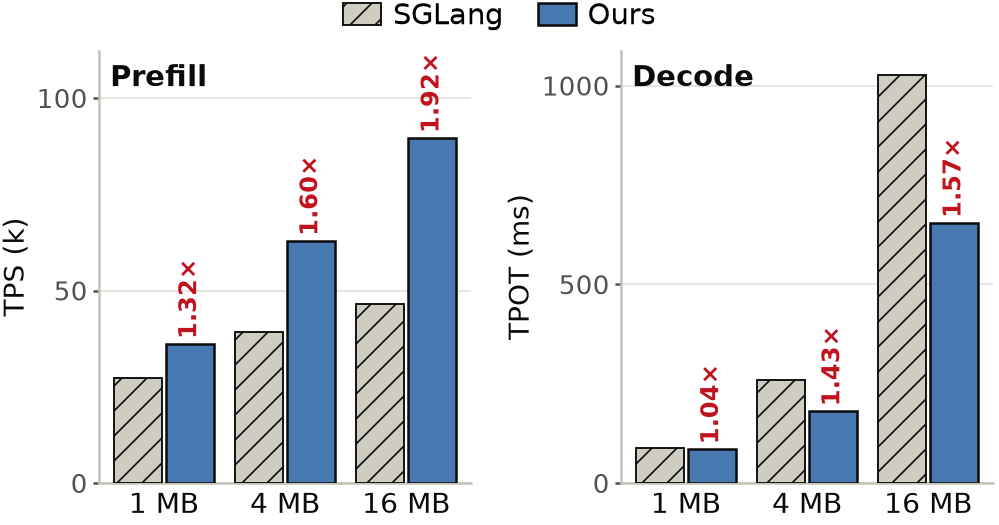
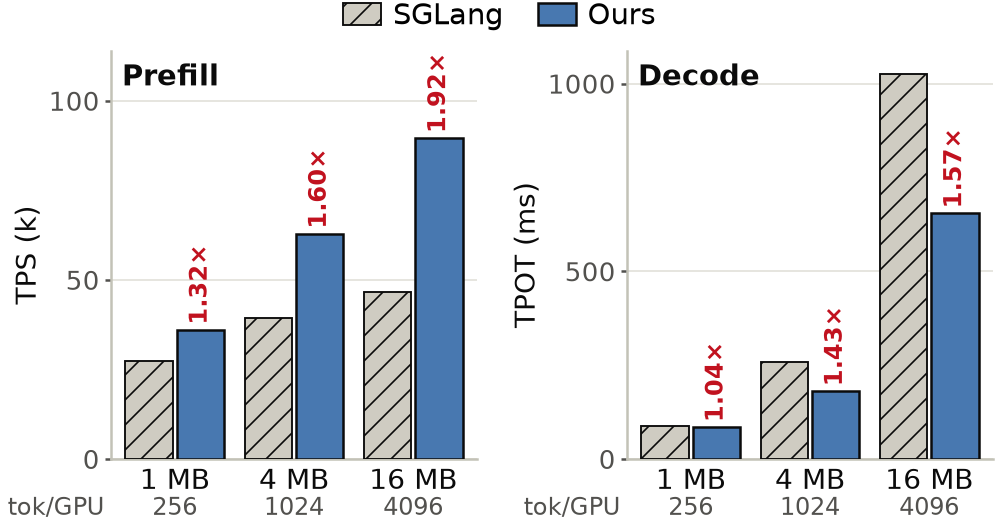
sglang_serving: tokens-per-GPU row under the MB group labels (numbers per group, unit once at the row's left); bottom/left margins widened

Changed region(s): [[0.0, 0.0914, 0.4655, 1.0], [0.4965, 0.0914, 0.993, 1.0], [0.9309, 0.1524, 0.993, 0.1829]]

diff --git a/figs/sglang_serving/make_figure.py b/figs/sglang_serving/make_figure.py
@@ -27,7 +27,11 @@ CONFIG = dict(
         ("prefill", "Prefill", "TPS (k)", True, 1e-3),
         ("decode", "Decode", "TPOT (ms)", False, 1.0),
     ],
-    GROUP_FMT="{b} MB",                    # group label under each pair; tokens / requests per GPU go in the caption
+    GROUP_FMT="{b} MB",                    # group label under each pair
+    # second label row: tokens per GPU per layer-step (prefill: chunk tokens; decode: running requests, one token
+    # each); 30B hidden 2048 x 2 B -> 1 MB = 256 tokens. Numbers only under each group, the unit once at the row's left.
+    TOKENS={1: 256, 4: 1024, 16: 4096},
+    TOK_FMT="{tok}", TOK_ROW_LABEL="tok/GPU",
     SYSTEMS=["stock", "ours"],             # bar order inside a group
     LEGEND_NAMES={"stock": "SGLang", "ours": "Ours"},
     COLORS={"stock": "#cfccc2", "ours": "#4878b0"},     # Ours = main_perf_v5's Ours blue
@@ -44,11 +48,12 @@ CONFIG = dict(
     # ---- layout, inches at final size (the PDF is placed at \columnwidth = 3.33 in; ~20 % of the 9 in column) ----
     FIG_W=3.33, FIG_H=1.75,
     TOP_IN=0.17,                           # legend strip
-    BOTTOM_IN=0.14,                        # group labels
-    LEFT_IN=0.33, RIGHT_IN=0.02, GAP_IN=0.50,   # GAP = between the panels (holds the right panel's y labels)
+    BOTTOM_IN=0.22,                        # group labels + token row
+    LEFT_IN=0.37, RIGHT_IN=0.02, GAP_IN=0.50,   # GAP = between the panels (holds the right panel's y labels)
     FONT_FAMILY=["Helvetica", "Arial", "DejaVu Sans"],
-    FONT_SIZES=dict(legend=7, title=7, ylabel=6.8, tick=6.3, group=6.8, speedup=5.8, pending=5.6),
+    FONT_SIZES=dict(legend=7, title=7, ylabel=6.8, tick=6.3, group=6.8, tok=5.8, speedup=5.8, pending=5.6),
     GROUP_DY_PT=2.0,                       # group label row: points below the x axis
+    TOK_DY_PT=9.0,                         # token row: points below the x axis
     OUTPUTS=[("sglang_serving_draft.pdf", {}), ("sglang_serving_draft.png", {"dpi": 300})],
 )
 # =============================================================================
@@ -144,6 +149,13 @@ def main(cfg=CONFIG):
                         fontweight=sp["weight"], color=sp["color"], zorder=5, bbox=bbox)
             ax.text(gi, 0, cfg["GROUP_FMT"].format(b=b), transform=below(cfg["GROUP_DY_PT"]), ha="center", va="top",
                     fontsize=fs["group"], color=ink["primary"])
+            if cfg.get("TOKENS"):
+                ax.text(gi, 0, cfg["TOK_FMT"].format(tok=cfg["TOKENS"][b]), transform=below(cfg["TOK_DY_PT"]),
+                        ha="center", va="top", fontsize=fs["tok"], color=ink["secondary"])
+        if cfg.get("TOKENS"):
+            row = matplotlib.transforms.offset_copy(ax.transAxes, fig=fig, x=-1.5, y=-cfg["TOK_DY_PT"], units="points")
+            ax.text(0, 0, cfg["TOK_ROW_LABEL"], transform=row, ha="right", va="top", fontsize=fs["tok"],
+                    color=ink["secondary"])
     handles = [Patch(facecolor=cfg["COLORS"][s], hatch=cfg["HATCHES"][s], edgecolor=ink["primary"],
                      linewidth=cfg["OURS_EDGE_LW"] if s == "ours" else cfg["EDGE_LW"], label=cfg["LEGEND_NAMES"][s])
                for s in cfg["SYSTEMS"]]
